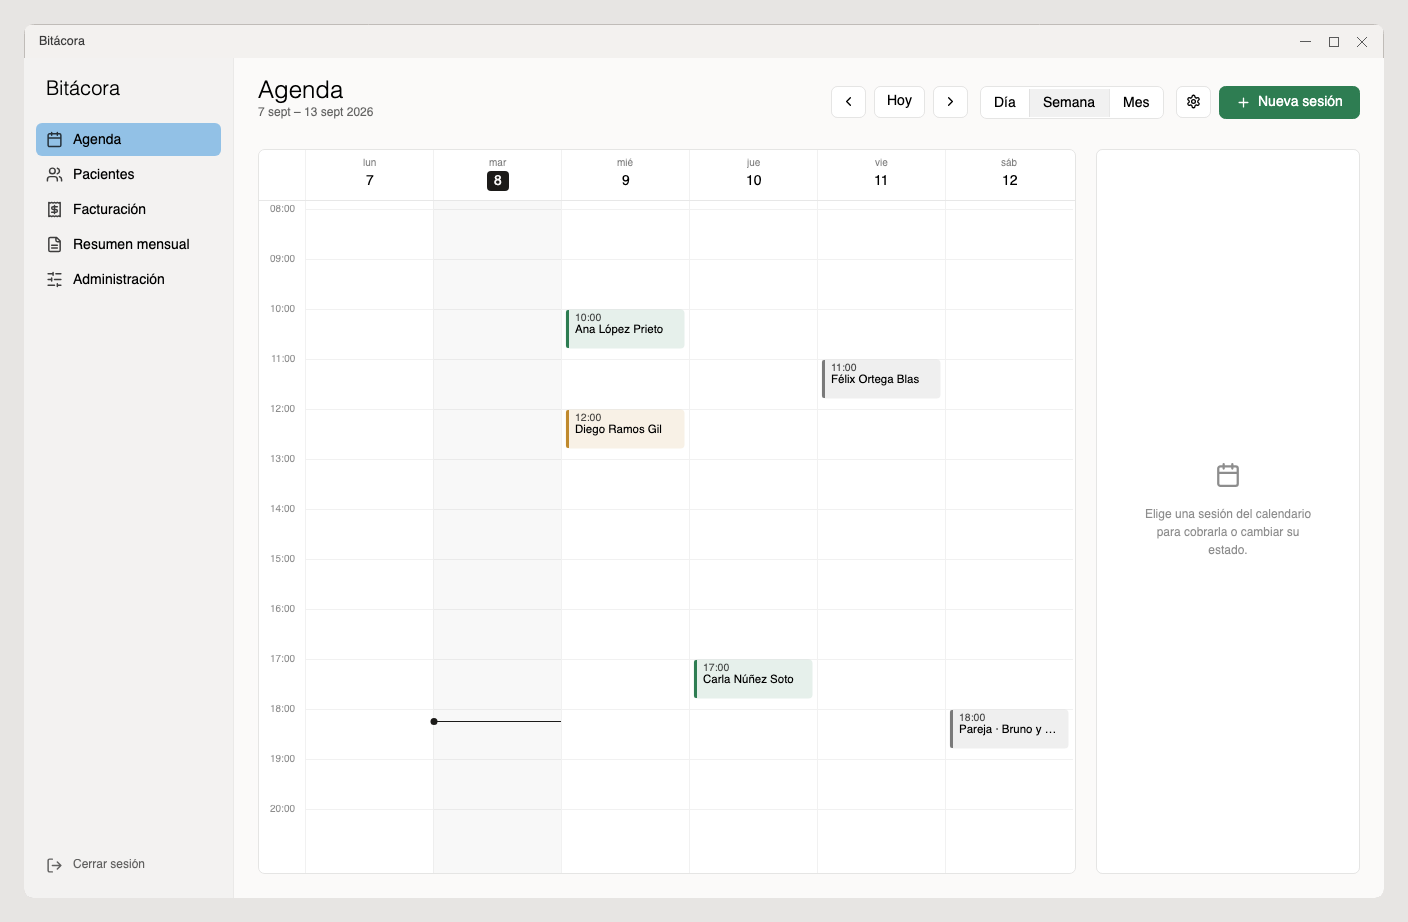
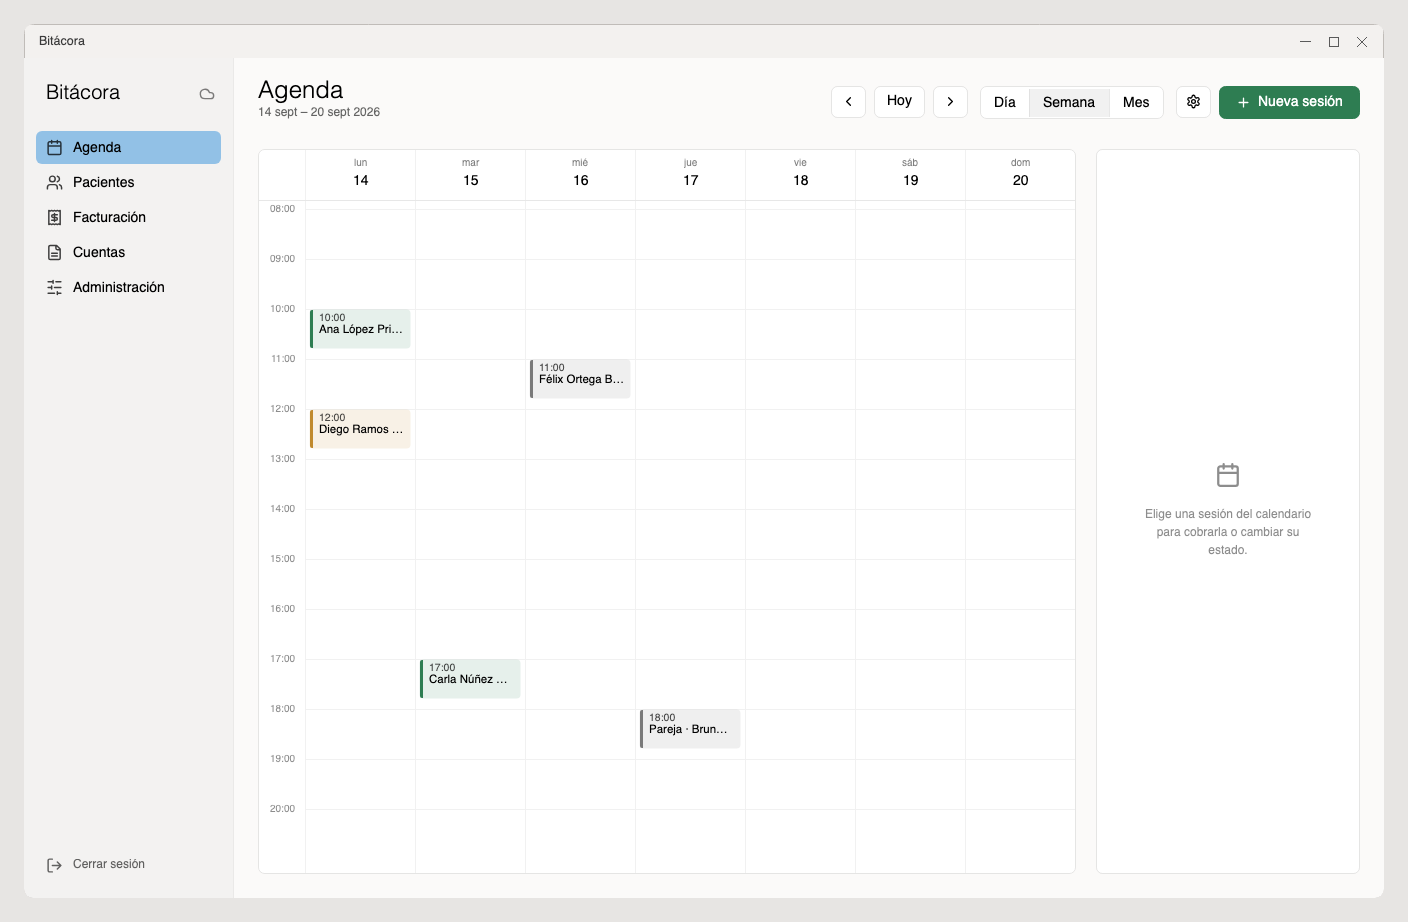
Actualizar la web para 0.1.13

diff --git a/MANUAL.md b/MANUAL.md
@@ -316,7 +316,7 @@ texto de fábrica solo dice día, hora y enlace.
 ## 4. El día a día
 
 Cinco secciones a la izquierda: **Agenda**, **Pacientes**, **Facturación**,
-**Resumen mensual** y **Administración**.
+**Cuentas** y **Administración**.
 
 ![Listado de pacientes, con la rueda de lo que se enseña y los botones de Abrir ficha y Dar de alta](imagenes/pacientes.png)
 
@@ -950,14 +950,19 @@ se manda: Bitácora dice cuál es la que está vigente.
 
 ---
 
-## 9. El resumen para la gestoría
+## 9. Cuentas: ingresos, gastos y balance
 
-![Resumen mensual, con las citas por estado y el detalle de cobros del mes](imagenes/resumen-mensual.png)
+![Cuentas, pestaña de ingresos, con las citas por estado y el detalle de cobros del mes](imagenes/resumen-mensual.png)
 
-**Resumen mensual** → elegir el mes (el selector va por mes y año, sin día). Sale
-lo que suele pedir la gestoría cada mes:
-cuántas sesiones hubo por estado (realizadas, no asistió, canceladas…), el total
-cobrado, y el detalle de cada cobro.
+**Cuentas** → elegir el mes arriba a la derecha (el selector va por mes y año,
+sin día). El mes vale para las tres pestañas: **Ingresos**, **Gastos** y
+**Balance**. Al entrar se abre **Ingresos**.
+
+### Ingresos
+
+Lo que suele pedir la gestoría cada mes: cuántas sesiones hubo por estado
+(realizadas, no asistió, canceladas…), el total cobrado, y el detalle de cada
+cobro.
 
 **Va por lo cobrado, no por lo facturado.** Si una sesión de agosto se cobró en
 agosto pero no se factura hasta septiembre, cuenta en el resumen de agosto — el
@@ -987,6 +992,24 @@ vacío.
 
 **Exportar a PDF…** lo saca ya con los datos fiscales y el logotipo, listo para
 enviarlo.
+
+### Gastos
+
+Los gastos de la consulta: alquiler, cuota del colegio, seguro, material…
+**Anotar gasto** abre una ventana con el concepto, el importe y la fecha; se
+rellena y se pulsa **Anotar**. La fecha se propone dentro del mes que se está
+mirando; si se elige una de otro mes, el gasto va a ese mes y la aplicación
+avisa de dónde ha ido. Si falta algo, la ventana no se cierra y dice qué falta.
+La **papelera** de cada fila quita el gasto.
+
+Por ahora los gastos solo se ven aquí: el PDF para la gestoría sigue llevando
+solo los cobros.
+
+### Balance
+
+Arriba, lo cobrado, lo gastado y el balance del mes elegido. Debajo, el **año
+mes a mes** con las mismas tres cifras y el total del año, con el mes elegido en
+negrita. Un balance negativo sale en rojo.
 
 ---
 
